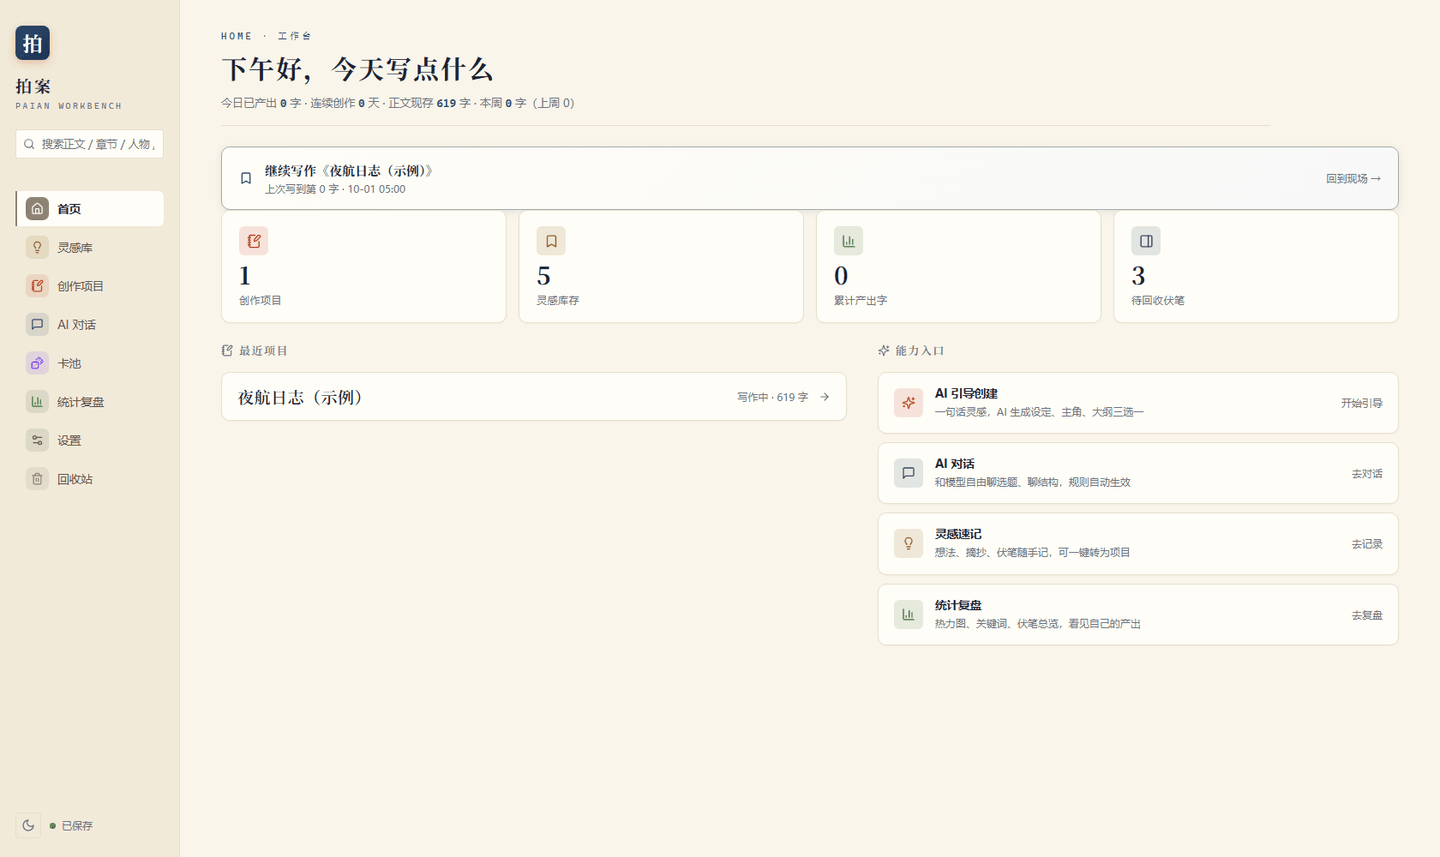
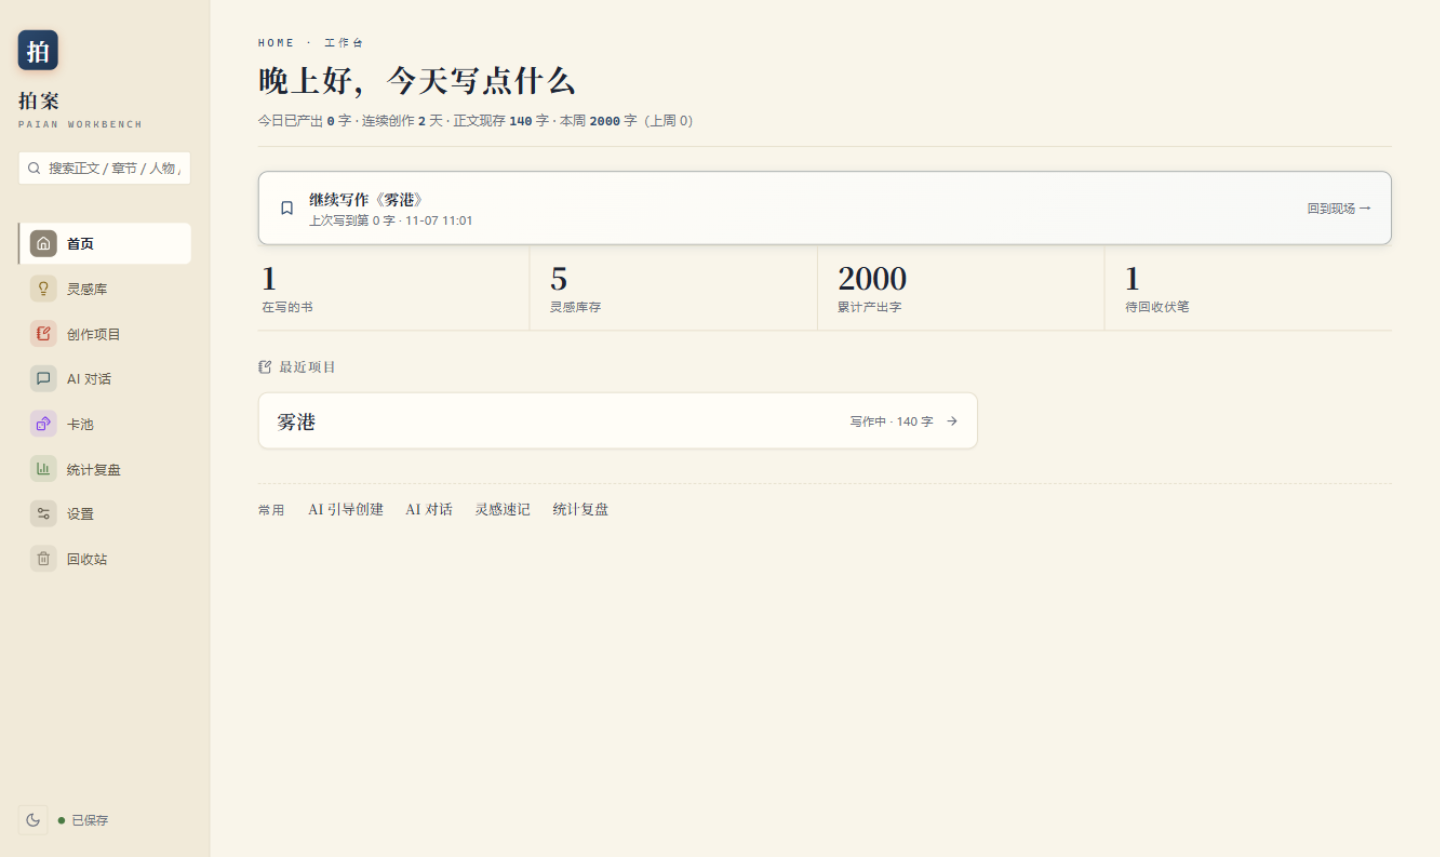
docs: README 图文更新到 1.0.3 界面（重截五张截图），正文去 emoji

diff --git a/README.md b/README.md
@@ -17,12 +17,12 @@
 <p align="center">
   <img src="docs/screenshots/02-writing.png" alt="写作台：章节栏 + 正文 + AI 工坊" width="100%">
   <br>
-  <sub>写作台：书 → 卷 → 章三级目录，正文自动保存，右侧 AI 工坊按细纲出稿</sub>
+  <sub>写作台：属性收起、正文为主角；右侧 AI 工坊 18 个动作（含 OOC 检查、钩子体检），底部体检与冲刺入口</sub>
 </p>
 
 <table>
 <tr>
-<td width="50%"><img src="docs/screenshots/01-home.png" alt="首页"><br><sub>首页 · 今日概览与能力入口</sub></td>
+<td width="50%"><img src="docs/screenshots/01-home.png" alt="首页"><br><sub>首页 · 当日数字、继续写作与常用入口</sub></td>
 <td width="50%"><img src="docs/screenshots/03-outline.png" alt="大纲页"><br><sub>大纲页 · 作品健康度 + 批量出稿</sub></td>
 </tr>
 <tr>
@@ -39,11 +39,11 @@
 
 适合这些场景：
 
-- 📚 有完整大纲，想让 AI 按细纲逐章出稿，自己只做取舍和润色
-- ✍ 日更压力下，用「写本卷」批量生成整卷草稿打底，再逐章精修
-- 🧠 长篇写到几十万字，怕人物设定崩、前文伏笔忘——让出场记忆替你盯着
-- 💡 灵感来了随手记进灵感库，回头一键并进大纲
-- 📤 写完直接导出 md / txt / 分卷 / docx / epub 去平台发布
+- 有完整大纲，想让 AI 按细纲逐章出稿，自己只做取舍和润色
+- 日更压力下，用「写本卷」批量生成整卷草稿打底，再逐章精修
+- 长篇写到几十万字，怕人物设定崩、前文伏笔忘——让出场记忆替你盯着
+- 灵感来了随手记进灵感库，回头一键并进大纲
+- 写完直接导出 md / txt / 分卷 / docx / epub 去平台发布
 
 不适合：指望一句话生成一整本拿去直接卖。AI 出的是**按你的细纲写的草稿**，成稿质量取决于你给的大纲和把关。
 
@@ -72,40 +72,40 @@
 
 ## 六大功能
 
-### ✍ 写作台 — 章级编辑与自动保存
+### 写作台 — 章级编辑与自动保存
 
 - CodeMirror 6 编辑器：流畅长文输入，自动保存不打断打字
 - 每章独立字数统计、章节历史快照（最多 20 份），写崩了随时回滚
 - **体检四页签**：敏感词 / 平台惯例 / 口头禅雷达 / 本章汇总——投稿前和日常自查都在这里
 - 码字冲刺计时、冻结修改、章节对照、大纲页「作品健康度」（卡文、断更、要点缺失一眼看清）
 
-### 🤖 AI 工坊 — 按细纲代笔，字数可控
+### AI 工坊 — 按细纲代笔，字数可控
 
 - **写一段 / 本章草稿 / 写本卷 / 写全书**：从单段到整卷批量出稿，每章字数 300–5000 自定义（默认 2000，网文单章标准）
-- **AI 工坊 18 个动作**：续写润色扩写、按细纲出稿，也有「OOC 检查」「钩子体检」这类只判不写的语义体检，和游戏脚本改编三件套
+- **18 个动作**：续写润色扩写之外，还有「OOC 检查」「钩子体检」这类只判不写的语义体检，和游戏脚本改编三件套
 - **内容门禁**：要点太薄的章会先提醒再生成，避免 AI 现编剧情掉回套路
 - **提示词覆盖**：每类任务的自定义提示词，写谁像谁
 - 批量进度实时显示当前章、成功/失败与缓存命中率
 
-### 🧠 出场记忆 — 长篇不崩人设
+### 出场记忆 — 长篇不崩人设
 
 - 采纳章节后自动抽取出场人物/物品/事件，写进人物卡与设定卡
 - 人物状态与履历自动追加，幻觉角色一键清洗
 - 伏笔从埋设到回收全程追踪，牵线画布可视化人物关系
 
-### 🗂 大纲与灵感 — 书 → 卷 → 章
+### 大纲与灵感 — 书 → 卷 → 章
 
 - **书 → 卷 → 章**三级结构：导入大纲文件（md/txt/docx）自动识别卷标、建卷建章
 - 「并入大纲」按章名把大纲段落分发到对应章的剧情要点
 - 灵感库随手记，标签分类 + 全文搜索，一键并入大纲或新建作品
 - 场景板按空行切块重排章节结构，牵线画布梳理人物关系
 
-### 🎲 卡池与取名 — 灵感不再枯竭
+### 卡池与取名 — 灵感不再枯竭
 
 - 卡池抽卡出设定灵感，卡牌可收藏进设定
 - 取名大师：中文人名/地名/功法批量生成，钉住常驻抽屉
 
-### 🗃 数据安全 — 全本地，可迁移
+### 数据安全 — 全本地，可迁移
 
 - 自动保存 + **每日自动备份**（保留 7 天）+ 设置里一键从备份恢复，还可**镜像到第二目录**双保险
 - **数据文件夹一键迁移**：设置里换个位置，自动搬全部数据与备份并重启
